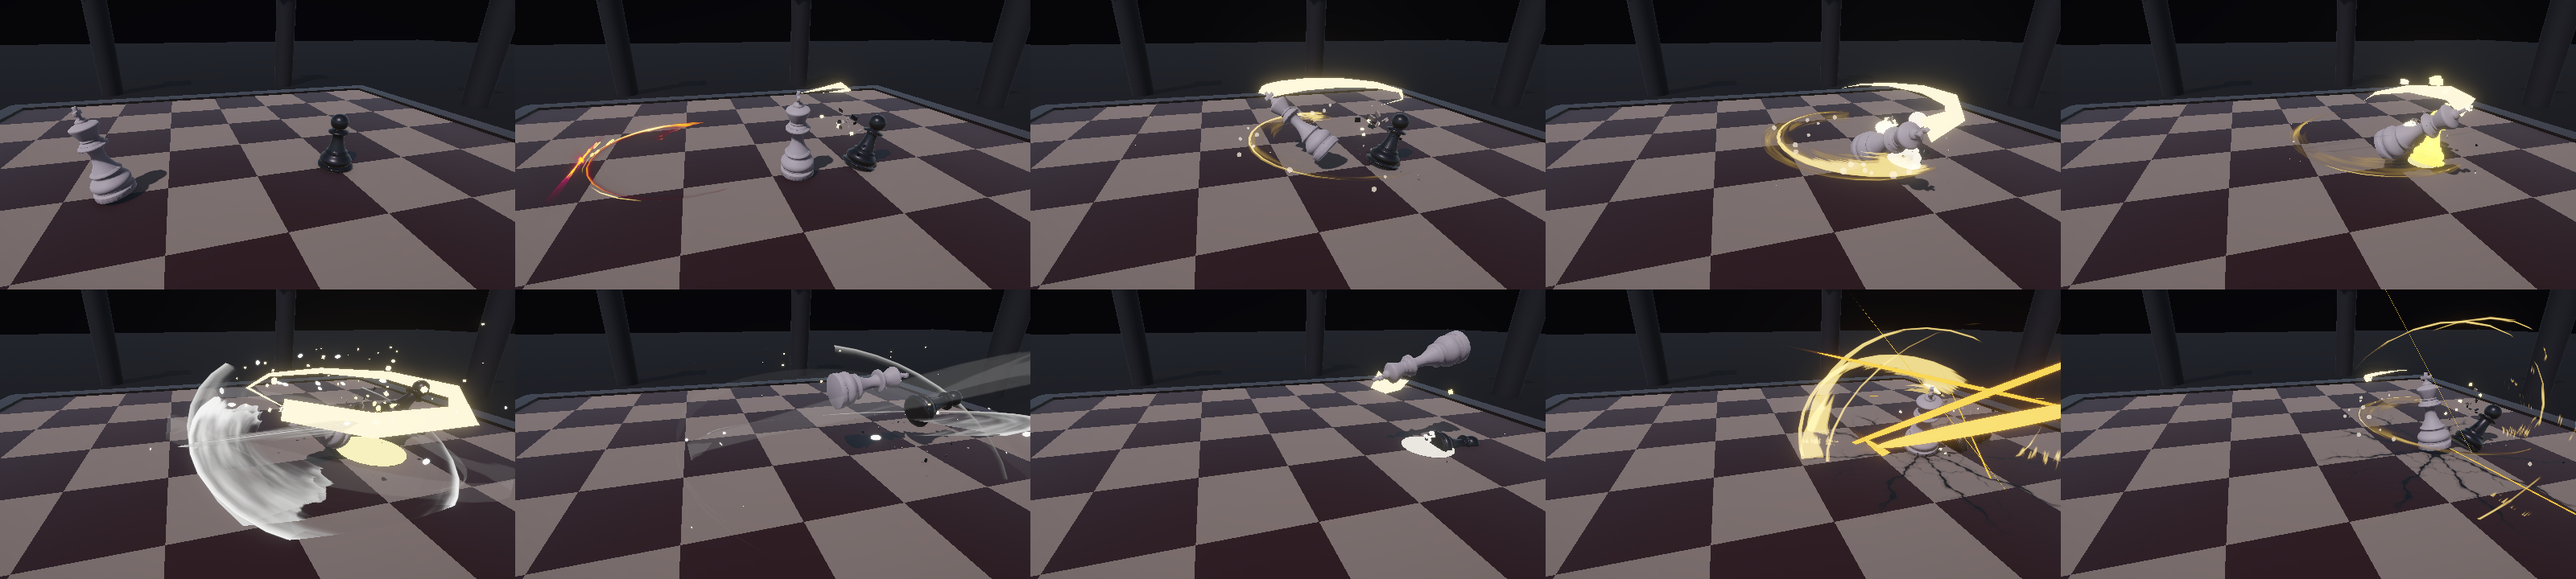
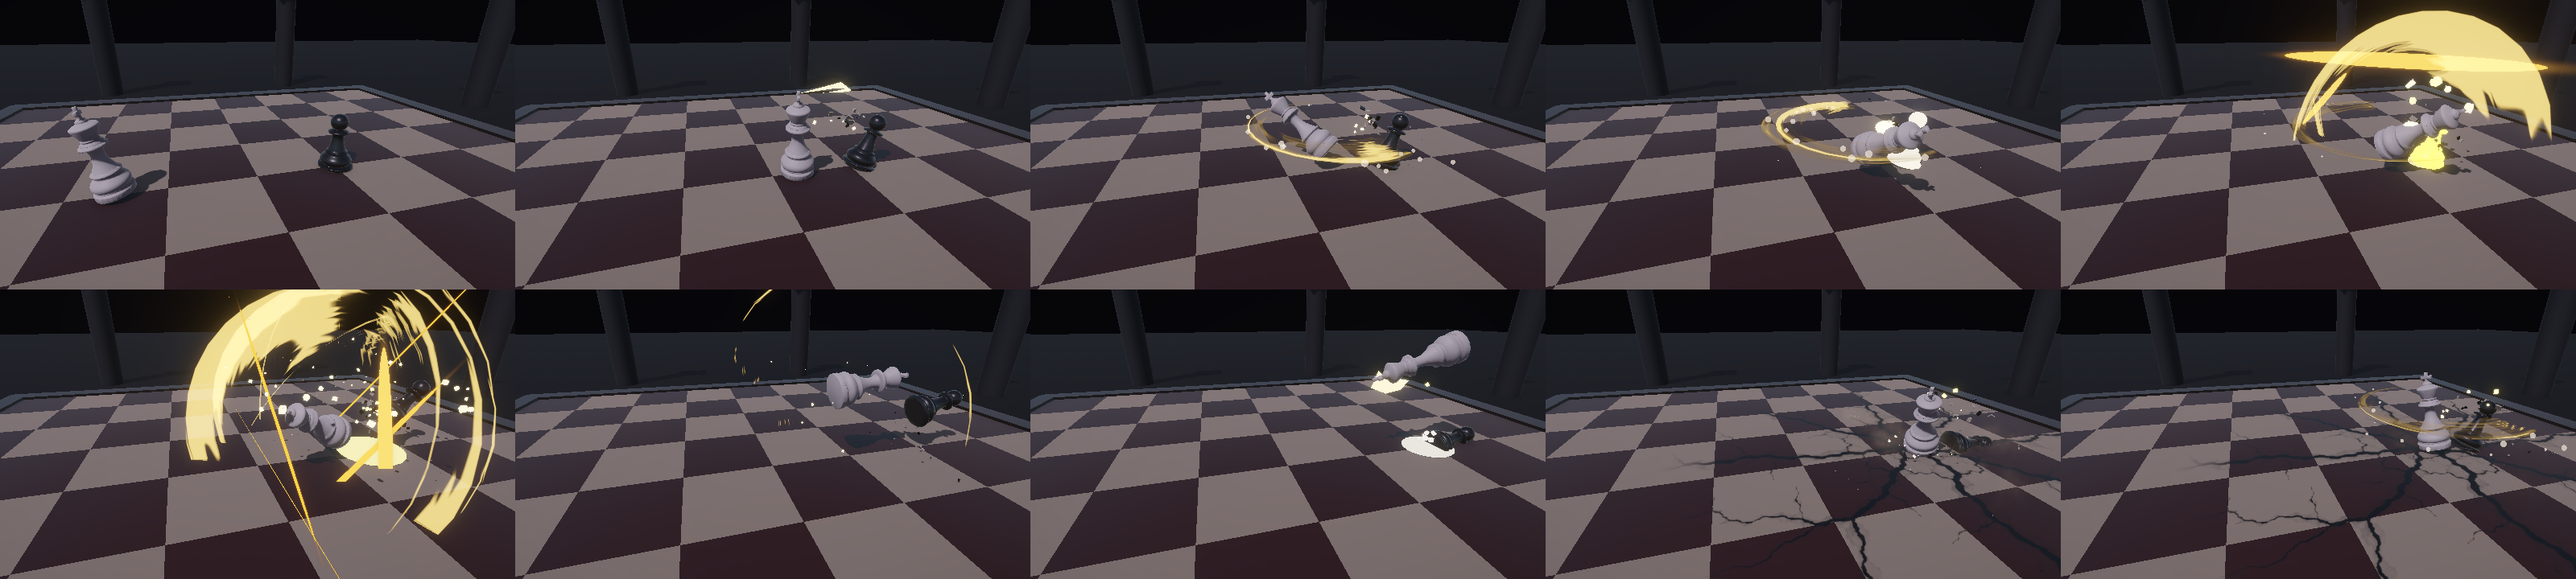
Slash/dust/crack tuning
- Whip slashes flipped to match the swing, played at crown height in place
  of the crown trail (trail off for attacks with an authored slash)
- Gold Slash_Aoe_A burst moved to the 3rd hit (cyclone)
- 4th hit and the RMB stomp: no slash, a ring of dust (NamuFX smoke/dust
  layers only, neutral color)
- Crack decals 2.5x larger; rippling-board cracks use a deep projector so
  lifted squares keep showing them

diff --git a/Assets/Scripts/Core/Vfx.cs b/Assets/Scripts/Core/Vfx.cs
@@ -63,7 +63,11 @@ namespace KingLastPiece
         /// works; <paramref name="tint"/> recolors every system's start color (keeping alpha).
         /// Returns false when the asset isn't available (callers fall back to the primitive crescent).
         /// </summary>
-        public static bool Slash(SlashFxKind kind, Vector3 pos, Quaternion rot, float scale, Color? tint = null)
+        public static bool Slash(SlashFxKind kind, Vector3 pos, Quaternion rot, float scale, Color? tint = null) =>
+            Slash(kind, pos, rot, scale, tint, null);
+
+        /// <param name="keep">When set, only particle systems whose (lower-case) name passes keep emitting.</param>
+        static bool Slash(SlashFxKind kind, Vector3 pos, Quaternion rot, float scale, Color? tint, System.Predicate<string> keep)
         {
             var lib = FxLibrary.Instance;
             if (lib == null) return false;
@@ -84,24 +88,53 @@ namespace KingLastPiece
             fx.transform.localScale = Vector3.one * scale;
             foreach (var ps in fx.GetComponentsInChildren<ParticleSystem>())
             {
+                string n = ps.name.ToLowerInvariant();
+                if (keep != null && !keep(n))
+                {
+                    var em = ps.emission;
+                    em.enabled = false;
+                    ps.Clear(false);
+                    continue;
+                }
                 var main = ps.main;
                 main.scalingMode = ParticleSystemScalingMode.Hierarchy;
-                string n = ps.name.ToLowerInvariant();
-                if (n.Contains("dust") || n.Contains("smoke"))
-                    Recolor(ps, new Color(0.55f, 0.5f, 0.45f));  // neutral dust, never "enemy red"
-                else if (tint.HasValue)
-                    Recolor(ps, tint.Value);
-            }
-            if (tint.HasValue)
-                foreach (var r in fx.GetComponentsInChildren<ParticleSystemRenderer>())
+                bool dust = n.Contains("dust") || n.Contains("smoke");
+                if (dust) Recolor(ps, DustColor);  // neutral dust, never "enemy red"
+                else if (tint.HasValue) Recolor(ps, tint.Value);
+                if (dust || tint.HasValue)
                 {
+                    var r = ps.GetComponent<ParticleSystemRenderer>();
                     var mats = r.sharedMaterials;
                     for (int i = 0; i < mats.Length; i++) mats[i] = VertexColored(mats[i]);
                     r.sharedMaterials = mats;
                     if (r.trailMaterial != null) r.trailMaterial = VertexColored(r.trailMaterial);
                 }
+            }
             Object.Destroy(fx, 2.2f);
             return true;
+        }
+
+        static readonly Color DustColor = new Color(0.55f, 0.5f, 0.45f);
+
+        /// <summary>
+        /// Low dust burst around a landing: only the smoke / dust layers of the NamuFX prefabs (no slashes),
+        /// spread in a ring so the cracks in the middle stay readable. Falls back to grey sparks.
+        /// </summary>
+        public static void Dust(Vector3 center, float radius)
+        {
+            center.y = 0.15f;
+            bool any = false;
+            System.Predicate<string> dustOnly = n => n.Contains("smoke") || n.Contains("dust");
+            int puffs = Mathf.Clamp(Mathf.RoundToInt(radius * 1.6f), 3, 7);
+            float offset = Random.value * 360f;
+            for (int i = 0; i < puffs; i++)
+            {
+                Vector3 d = Quaternion.Euler(0f, offset + i * 360f / puffs, 0f) * Vector3.forward;
+                var kind = i % 2 == 0 ? SlashFxKind.AoeA : SlashFxKind.SlashA;
+                any |= Slash(kind, center + d * radius * 0.6f, Quaternion.LookRotation(d), Mathf.Lerp(0.7f, 1.2f, radius / 4f), null, dustOnly);
+            }
+            if (!any) Effects.Shockwave(center, radius * 0.7f, new Color(0.22f, 0.2f, 0.18f), 0.45f);
+            Effects.Sparks(center, DustColor, Mathf.RoundToInt(6 + radius * 3f), 3.5f);
         }
 
         static readonly Dictionary<Material, Material> vertexColored = new Dictionary<Material, Material>();
@@ -157,7 +190,7 @@ namespace KingLastPiece
             switch (style)
             {
                 case VfxStyle.CrackedBoard:
-                    CrackDecalFx.Spawn(center, radius * 1.9f, strength);
+                    CrackDecalFx.Spawn(center, radius * 4.75f, strength);
                     Chips(center + Vector3.up * 0.05f, Vector3.zero, Mathf.RoundToInt(10 * strength), 4.5f * strength,
                         SquareColor(center), SquareColor(center) * 0.7f, 0.13f);
                     Effects.Sparks(center + Vector3.up * 0.1f, accent, Mathf.RoundToInt(6 * strength), 4f);
@@ -165,7 +198,8 @@ namespace KingLastPiece
                 case VfxStyle.BoardRipple:
                     BoardFx.Ripple(center, radius, strength);
                     SquareRingFx.Spawn(center, radius, accent, 0.5f);
-                    CrackDecalFx.Spawn(center, Mathf.Min(2.4f, radius * 0.8f), strength * 0.8f);
+                    // Deep projector: the squares lift up to ~0.4 while rippling and must keep showing the cracks.
+                    CrackDecalFx.Spawn(center, Mathf.Min(6f, radius * 2f), strength * 0.8f, 1.1f);
                     Confetti(center + Vector3.up * 0.1f, Vector3.zero, Mathf.RoundToInt(10 * strength), 4f * strength);
                     break;
                 default:
@@ -499,7 +533,7 @@ namespace KingLastPiece
     /// </summary>
     public class CrackDecalFx : MonoBehaviour
     {
-        const float Hold = 2.2f, Fade = 0.9f, Depth = 0.24f;
+        const float Hold = 2.2f, Fade = 0.9f, DefaultDepth = 0.24f;
         static readonly Dictionary<Texture2D, Material> materials = new Dictionary<Texture2D, Material>();
         static readonly int BaseMapId = Shader.PropertyToID("Base_Map");  // URP Decal shader graph property
 
@@ -507,7 +541,8 @@ namespace KingLastPiece
         float t;
 
         /// <param name="size">Width of the crack image on the board.</param>
-        public static void Spawn(Vector3 center, float size, float strength)
+        /// <param name="depth">Vertical reach of the projector (raise it when the board squares move).</param>
+        public static void Spawn(Vector3 center, float size, float strength, float depth = DefaultDepth)
         {
             var lib = FxLibrary.Instance;
             if (lib == null || lib.crackDecal == null || lib.crackTextures == null || lib.crackTextures.Length == 0)
@@ -529,7 +564,7 @@ namespace KingLastPiece
             var dp = go.AddComponent<UnityEngine.Rendering.Universal.DecalProjector>();
             dp.material = mat;
             float s = size * Mathf.Lerp(0.85f, 1.15f, Random.value);
-            dp.size = new Vector3(s, s, Depth);
+            dp.size = new Vector3(s, s, depth);
             dp.pivot = Vector3.zero;
             // Only the board's flat top: steep surfaces (piece sides) are skipped.
             dp.startAngleFade = 25f;

diff --git a/Assets/Scripts/Combat/AttackStyles.cs b/Assets/Scripts/Combat/AttackStyles.cs
@@ -115,6 +115,7 @@ namespace KingLastPiece
         public float fxScale = 1f, fxYaw, fxHeight = 0.9f;
         public bool fxFlip;            // upside-down = the arc sweeps the other way
         public bool fxGold;            // recolor the prefab to the King's gold
+        public bool dust;              // low dust burst around the impact (NamuFX smoke layers)
     }
 
     public struct MoveSeg
@@ -297,7 +298,8 @@ namespace KingLastPiece
                 {
                     start = 0.13f, end = 0.29f, range = 2.8f, arc = 220f, damage = 14f, poise = 14f, shake = 0.16f,
                     sweep = true, sweepFrom = 110f * side, sweepTo = -110f * side, slash = true,
-                    fx = SlashFxKind.SlashB, fxScale = 1.7f, fxFlip = side < 0f, fxGold = true,
+                    // Plays in place of the crown trail, at the height the crown sweeps through.
+                    fx = SlashFxKind.SlashB, fxScale = 1.7f, fxHeight = 1.2f, fxFlip = side > 0f, fxGold = true,
                 },
             },
             moves = new[] { new MoveSeg(0.04f, 0.3f, 1.0f) },
@@ -323,13 +325,12 @@ namespace KingLastPiece
                 {
                     start = 0.14f, end = 0.34f, shape = HitShape.Circle, range = 3.4f, damage = 9f, poise = 12f, shake = 0.25f,
                     slash = true, sweepFrom = 0f, sweepTo = 360f, sparkTrail = true,
-                    fx = SlashFxKind.SlashD, fxScale = 2.2f, fxHeight = 0.7f,
+                    fx = SlashFxKind.AoeA, fxScale = 1.6f, fxHeight = 0.9f, fxGold = true,
                 },
                 new HitWindow
                 {
                     start = 0.35f, end = 0.56f, shape = HitShape.Circle, range = 3.4f, damage = 9f, poise = 12f, shake = 0.3f,
-                    slash = true, sweepFrom = 0f, sweepTo = 360f, sparkTrail = true, kick = 0.35f,
-                    fx = SlashFxKind.SlashD, fxScale = 2.4f, fxHeight = 0.9f, fxYaw = 180f,
+                    sparkTrail = true, kick = 0.35f,
                 },
             },
             moves = new[] { new MoveSeg(0.1f, 0.56f, 0.8f, Ease.InOut) },
@@ -352,7 +353,7 @@ namespace KingLastPiece
                 {
                     start = 0.52f, end = 0.57f, shape = HitShape.Circle, range = 3.2f, damage = 20f, poise = 32f,
                     hitStop = 0.09f, shake = 0.45f, impact = true, kick = 0.6f,
-                    fx = SlashFxKind.AoeA, fxScale = 1.5f, fxHeight = 0.4f, fxGold = true,
+                    dust = true,
                 },
             },
             moves = new[] { new MoveSeg(0.14f, 0.52f, 1.6f, Ease.InOut) },
@@ -386,8 +387,8 @@ namespace KingLastPiece
             hits = new[]
             {
                 new HitWindow { start = 0.82f, end = 0.9f, shape = HitShape.Circle, range = 4.3f, damage = 46f, poise = 65f,
-                    hitStop = 0.12f, shake = 0.65f, impact = true, kick = 1f, slash = true, sweepFrom = 0f, sweepTo = 360f,
-                    fx = SlashFxKind.AoeA, fxScale = 2.1f, fxHeight = 0.4f, fxGold = true },
+                    hitStop = 0.12f, shake = 0.65f, impact = true, kick = 1f,
+                    dust = true },
             },
             moves = new[] { new MoveSeg(0.42f, 0.82f, 3.0f, Ease.InOut) },
         };

diff --git a/Assets/Scripts/Combat/PlayerController.cs b/Assets/Scripts/Combat/PlayerController.cs
@@ -73,7 +73,7 @@ namespace KingLastPiece
         float stateTime, staminaDelay;
         AttackDef atk;
         int comboIndex;
-        bool hitStopUsed;
+        bool hitStopUsed, atkUsesSlashFx;
         bool healed;
         HashSet<EnemyBase>[] hitSets = new HashSet<EnemyBase>[0];
         bool[] windowStarted = new bool[0];
@@ -406,6 +406,7 @@ namespace KingLastPiece
                 atk = style.lights[comboIndex];
             }
             Consume(heavy ? atk.cost : atk.cost * LightCostScale);
+            atkUsesSlashFx = FxLibrary.Instance != null && System.Array.Exists(atk.hits, h => h.fx != SlashFxKind.None);
             hitStopUsed = false;
 
             if (hitSets.Length < atk.hits.Length)
@@ -558,7 +559,8 @@ namespace KingLastPiece
             ApplyPose(atk.pose.Eval(t));
 
             bool trail = t >= atk.FirstHit - 0.07f && t <= atk.LastHit + 0.03f;
-            crownTrail.emitting = trail;
+            // An authored slash replaces the crown trail for this attack.
+            crownTrail.emitting = trail && !atkUsesSlashFx;
             baseTrail.emitting = trail && atk.heavy;
 
             for (int i = 0; i < atk.hits.Length; i++)
@@ -575,6 +577,7 @@ namespace KingLastPiece
                         SlashFx.Spawn(FlatPos + transform.forward * w.forward, transform.forward, w.range * 0.82f,
                             w.sweepFrom, w.sweepTo, w.end - w.start, new Color(1f, 0.82f, 0.45f));
                     if (w.kick > 0f) Game.Rig.Kick(w.kick);
+                    if (w.dust) Vfx.Dust(FlatPos + transform.forward * w.forward, w.range);
                     if (w.impact)
                     {
                         Vector3 c = transform.position + transform.forward * w.forward;

diff --git a/README.md b/README.md
@@ -75,9 +75,10 @@
 
 - **바닥 균열 = URP 데칼**: `Resources/Textures/Crack*.png`(바르코 생성)을 `KING ▸ Setup ▸ Effects Assets`가 투명 데칼 텍스처로 변환(흰 배경 → 투명, 가장자리 페이드) → 무작위 이미지·회전으로 바닥에 찍히고 약 3초 뒤 사라짐. 빛나는 균열은 사용하지 않음
 - **공격 궤적 = NamuFX Simple Stylized Slash vol2** (`Resources/FxLibrary.asset`에 등록)
-  - 1·2타: Slash_B 금색 (2타는 뒤집어 반대 방향)
-  - 3타 사이클론: Slash_D 백색 바람 고리 ×2
-  - 4타 메테오·우클릭 스톰프: Slash_Aoe_A 금색 + 균열 데칼
+  - 1·2타: Slash_B 금색 — 왕관 궤적 대신 왕관 높이에서 재생 (슬래시가 나오는 공격은 왕관 트레일 끔)
+  - 3타 사이클론: Slash_Aoe_A 금색 버스트
+  - 4타 메테오·우클릭 스톰프: 슬래시 없이 **먼지**(NamuFX 연기·먼지 레이어만, 고리 모양) + 균열 데칼
+- 균열 크기는 충격 반경 × 4.75. 보드가 일렁이는 연출(C안)에서는 데칼 투사 깊이를 늘려 솟은 칸에도 균열이 보임
   - 금색 틴트는 시작색·수명 그라디언트·트레일을 바꾸고, 커스텀 데이터 색을 끈 머티리얼 사본을 사용. 먼지·연기는 중립 회갈색
 - NamuFX는 서드파티 에셋이라 **저장소에 포함하지 않습니다**(로컬 `Assets/NamuFX`). 없으면 기존 바닥 초승달 궤적으로 대체됩니다.
 
